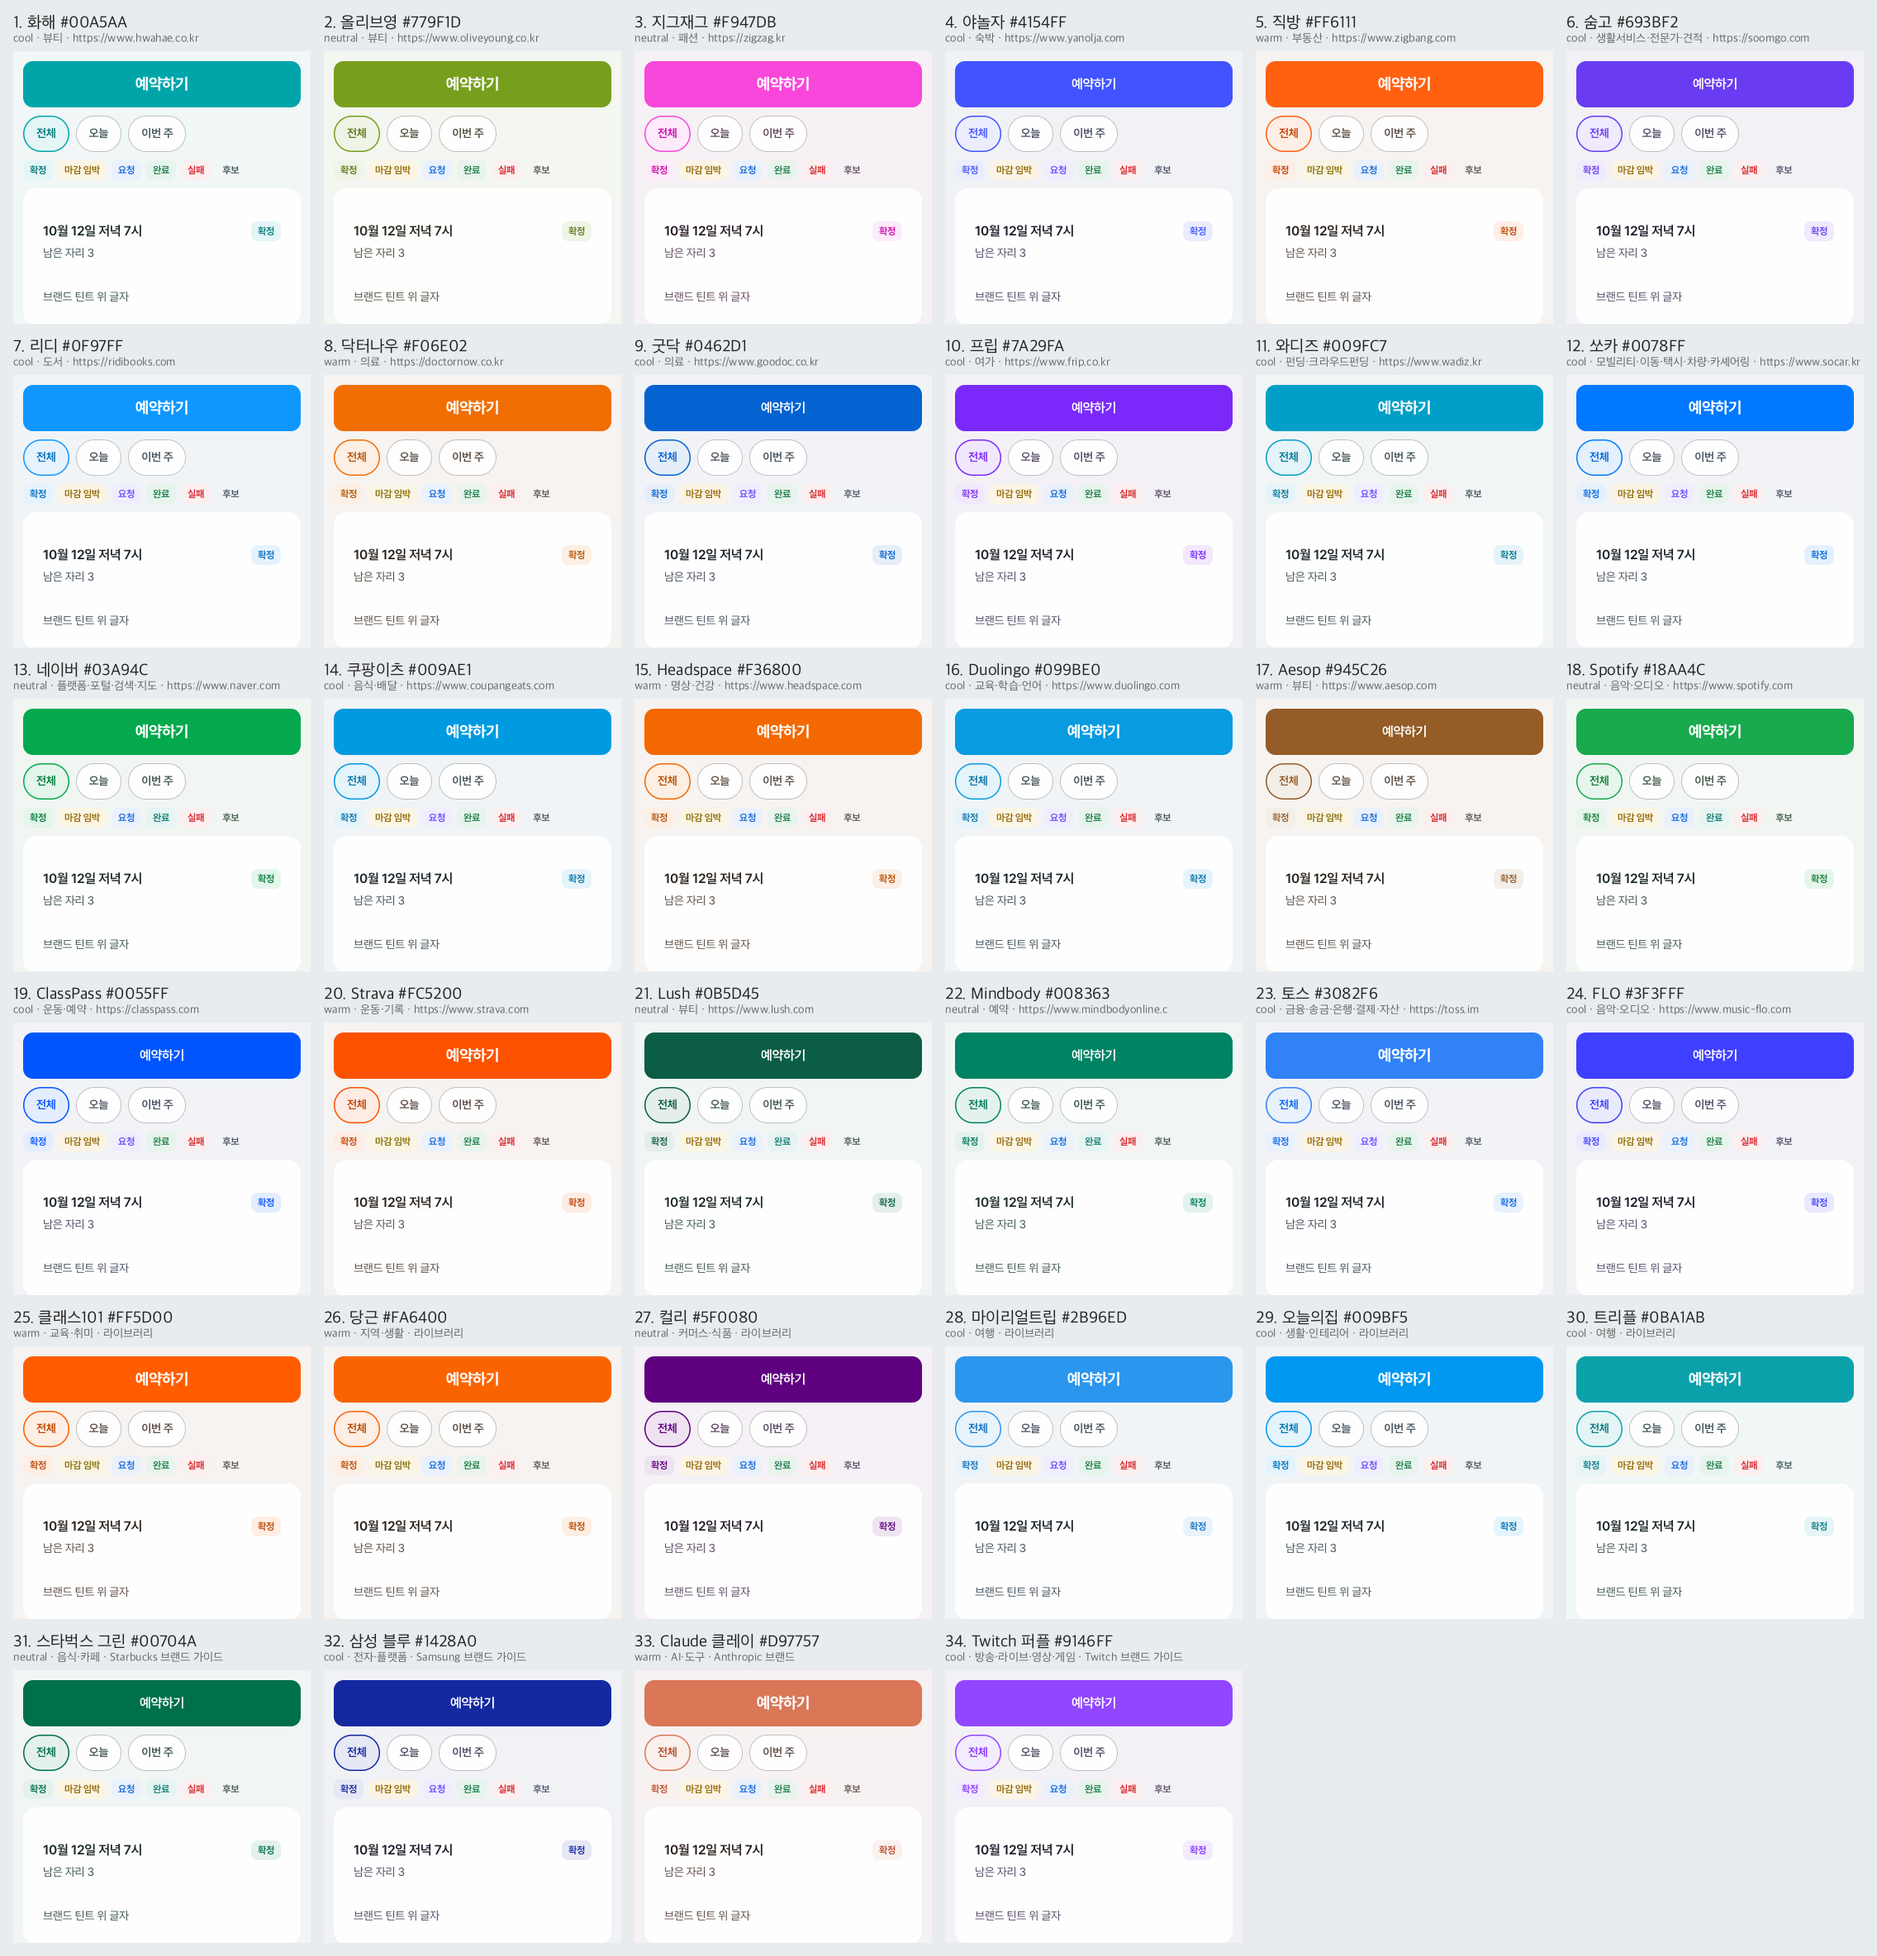
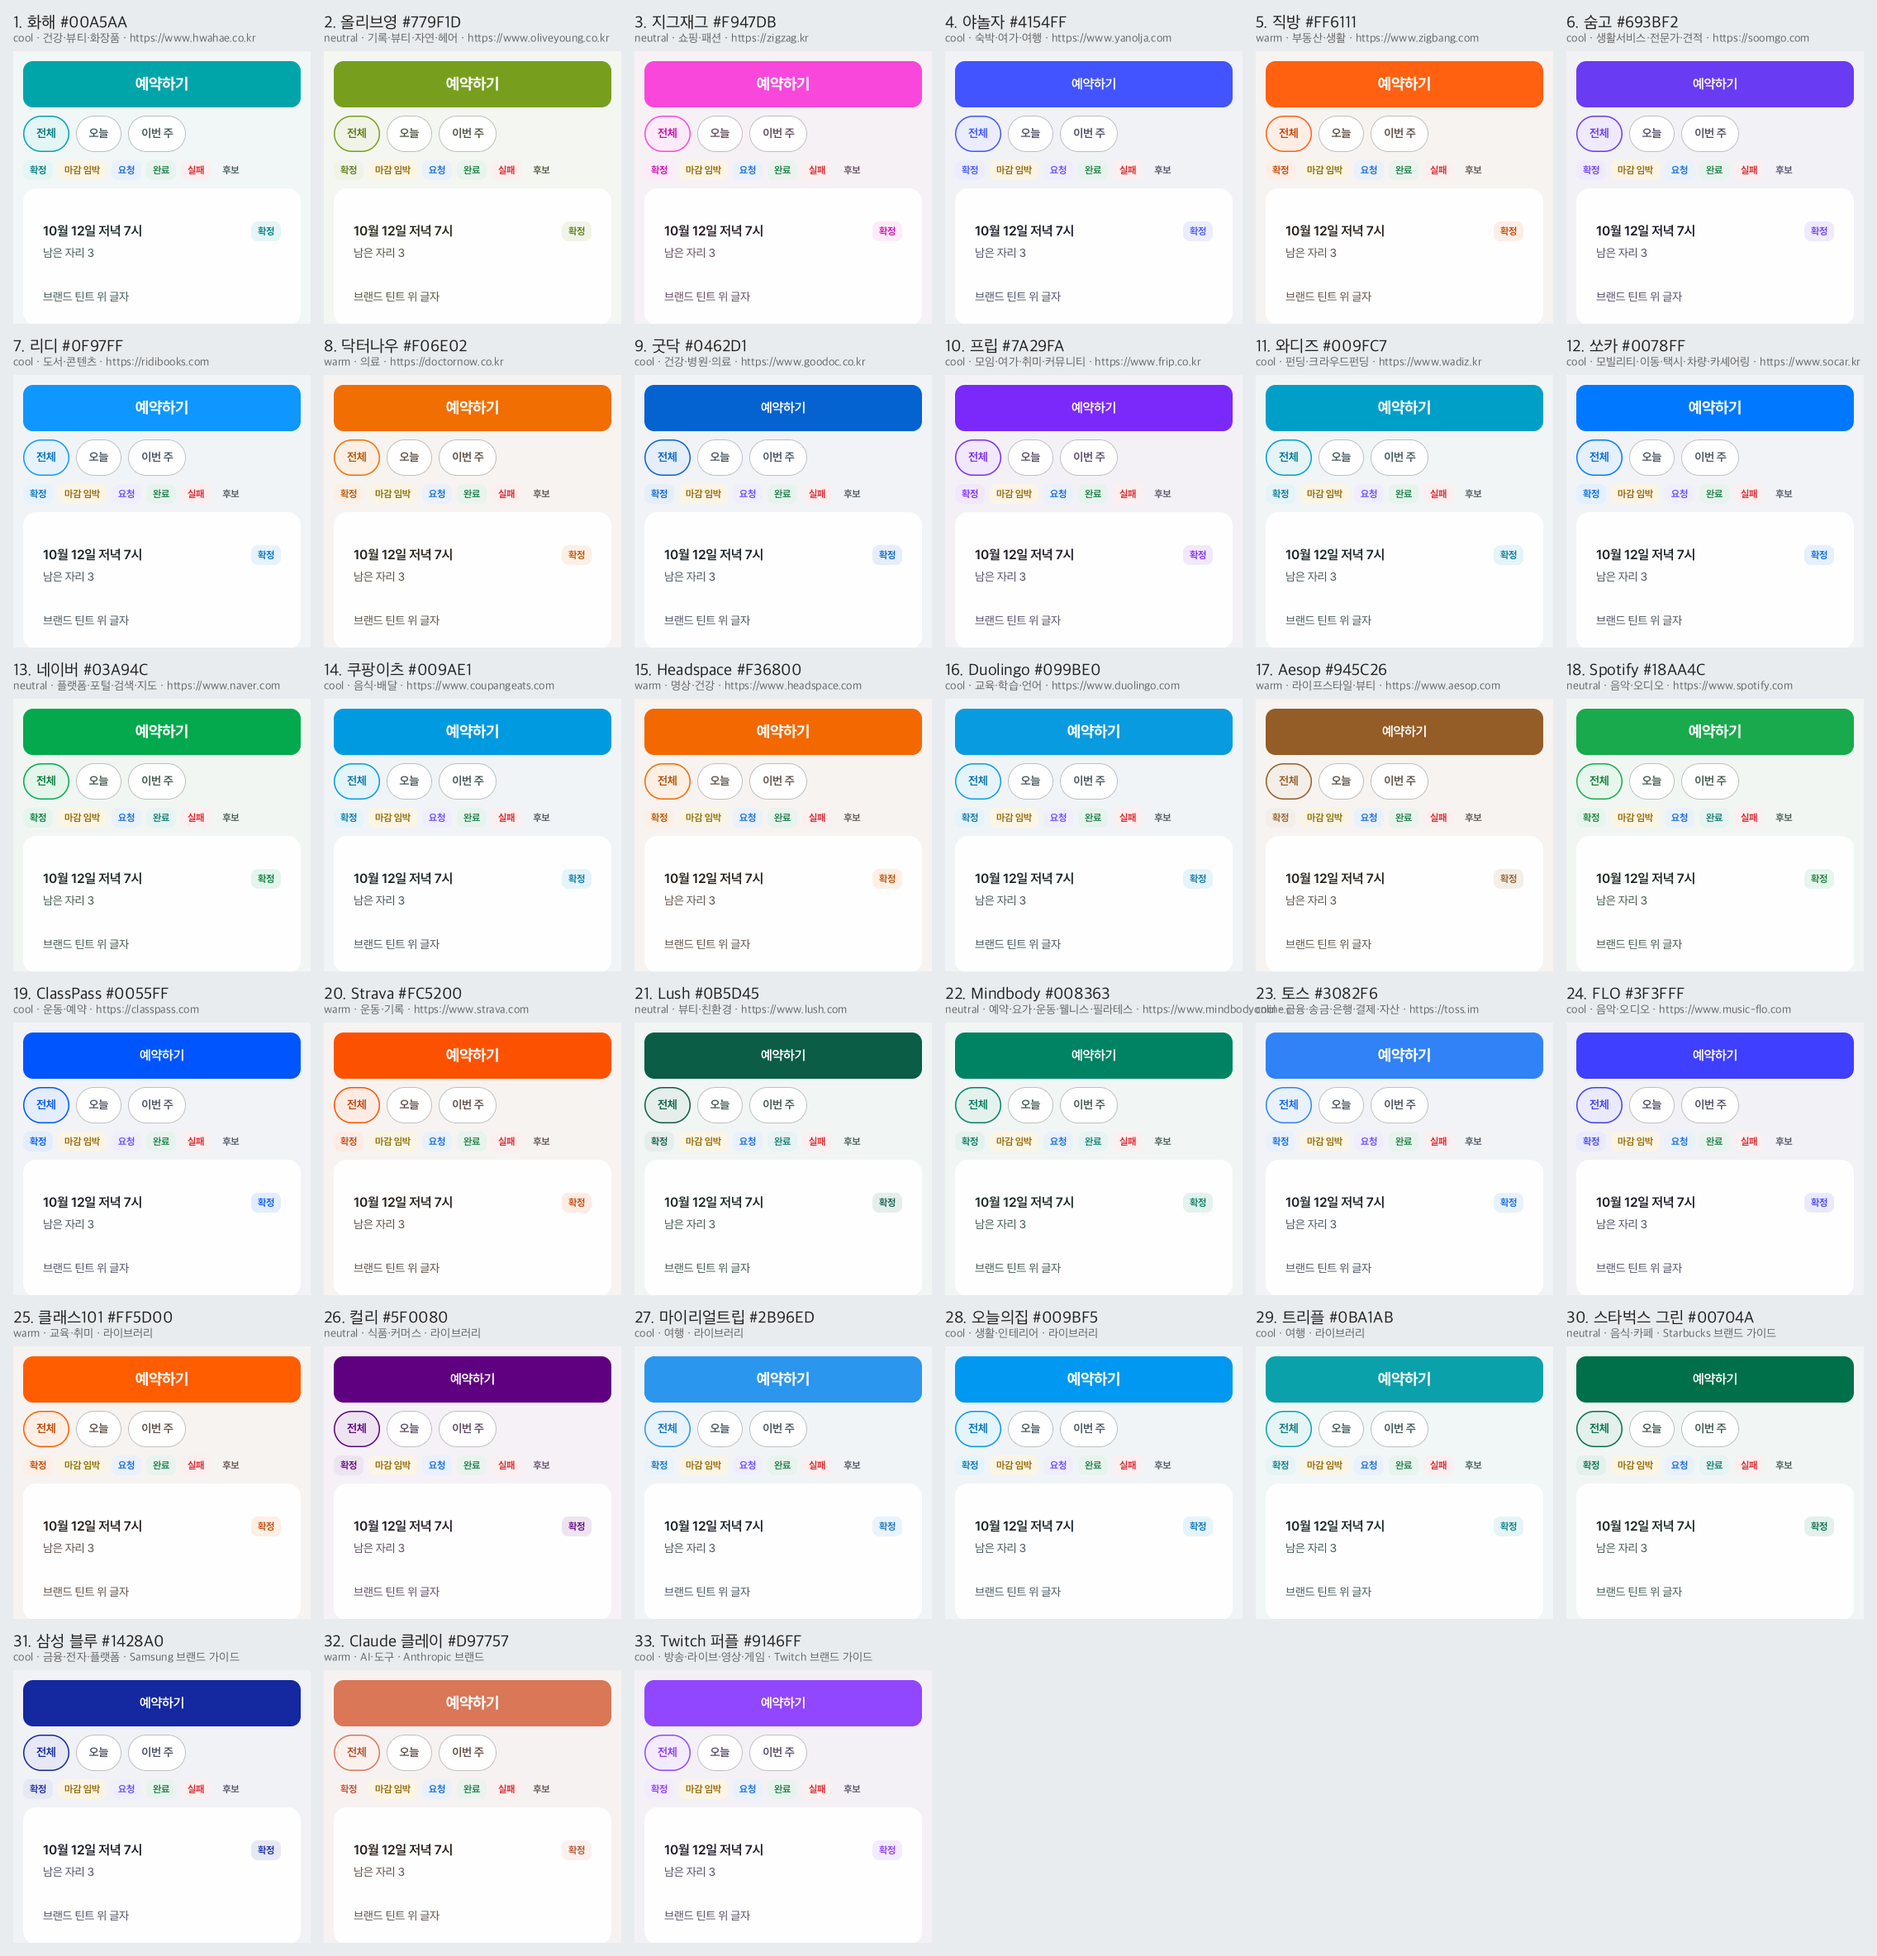
시드 다시 걸러도 승인 시드의 손 값(성격·도메인·둥글기) 보존, 시드 도메인 점수는 맞은 낱말마다 3(토스가 성격 낱말 많은 삼성 블루에 밀리던 것)

Changed region(s): [[0.0, 0.8125, 0.6562, 0.9062], [0.1562, 0.6562, 1.0, 0.75], [0.5312, 0.9375, 0.5625, 0.9688]]

diff --git a/plugins/k-style-ui-ux/core/scripts/palette_pick.py b/plugins/k-style-ui-ux/core/scripts/palette_pick.py
@@ -3,7 +3,7 @@
 python3 palette_pick.py <out_dir> --domain 여행 --tags "따뜻함,편안함,신뢰" --temp warm
 → out_dir/tokens.css(기본값) + tokens-<slug>.css ×3 + palettes.json(선택 이유)
 
-점수: 도메인 일치 3 · 성격 태그 겹침 1씩 · 감정 온도(--temp warm|cool) 일치 +1.5 / 반대 -1.5 · 흰 글자 버튼이 성립(대비 3 이상)하지 않으면 -2 · 합성 팔레트 -0.5 · 브랜드가 오류 빨강과 겹치면 -1.5(확정과 주의가 같은 붉은색이 된다)
+점수: 도메인 일치 3(시드는 맞은 도메인 낱말마다 3) · 성격 태그 겹침 1씩 · 감정 온도(--temp warm|cool) 일치 +1.5 / 반대 -1.5 · 흰 글자 버튼이 성립(대비 3 이상)하지 않으면 -2 · 합성 팔레트 -0.5 · 브랜드가 오류 빨강과 겹치면 -1.5(확정과 주의가 같은 붉은색이 된다)
 대안: 기본값과 브랜드 색상각이 40° 이상 다른 것(모노 1개까지) — 원클릭 교체 때 확실히 달라 보이게
 """
 import argparse, json, pathlib, subprocess, sys, colorsys
@@ -54,7 +54,8 @@ def main():
         sc = []
         for sd in json.loads(seeds_f.read_text(encoding="utf-8")):
             v, why = 0, []
-            if a.domain and any(d in x for d in a.domain.split(",") for x in sd.get("domains", [])): v += 3; why.append("도메인(" + "·".join(sd["domains"]) + ")")
+            dh = [d for d in a.domain.split(",") if d and any(d in x for x in sd.get("domains", []))]   # 맞은 도메인 낱말마다 3 — 더 정확히 맞는 시드가 성격 낱말 수로 뒤집히지 않게
+            if dh: v += 3 * len(dh); why.append("도메인(" + "·".join(dh) + ")")
             hit = tags & set(sd.get("tags", []))
             if hit: v += len(hit); why.append("성격(" + ",".join(sorted(hit)) + ")")
             if a.temp and sd.get("tone") in ("warm", "cool"):

diff --git a/plugins/k-style-ui-ux/core/scripts/seed_sheet.py b/plugins/k-style-ui-ux/core/scripts/seed_sheet.py
@@ -37,6 +37,14 @@ def collect():
             c.append({"slug": g.stem, "name": d["name"], "hex": d["scales"][d["brand"]][d["brand_step"]].upper(), "domains": d.get("domain", "").split("·"), "source": "라이브러리", "tags": d.get("tags", [])})
     f = P / "seed_extra.json"
     if f.exists(): c += json.loads(f.read_text(encoding="utf-8"))
+    # 이미 승인된 시드(seeds.json)에 손으로 붙인 성격 낱말·도메인·둥글기는 다시 걸러도 잃지 않는다
+    old = {x["slug"]: x for x in json.loads((P / "seeds.json").read_text(encoding="utf-8"))} if (P / "seeds.json").exists() else {}
+    for x in c:
+        o = old.get(x["slug"])
+        if not o: continue
+        x["domains"] = list(dict.fromkeys((o.get("domains") or []) + (x.get("domains") or [])))
+        for k in ("tags", "shape"):
+            if o.get(k) and not x.get(k): x[k] = o[k]
     return c
 
 def filt(c):
@@ -96,7 +104,7 @@ def main():
     if a.approve is not None:
         keep = json.loads((P / "seed_filtered.json").read_text(encoding="utf-8"))
         drop = {int(x) for x in a.approve.replace(" ", "").split(",") if x}
-        seeds = [{k: v for k, v in x.items() if k in ("slug", "name", "hex", "tone", "tags", "domains", "source")} for i, x in enumerate(keep, 1) if i not in drop]
+        seeds = [{k: v for k, v in x.items() if k in ("slug", "name", "hex", "tone", "tags", "domains", "source", "shape")} for i, x in enumerate(keep, 1) if i not in drop]
         (P / "seeds.json").write_text(json.dumps(seeds, ensure_ascii=False, indent=1), encoding="utf-8")
         print(f"seeds.json {len(seeds)}개 (뺀 번호 {sorted(drop)})"); return
     keep, log = filt(collect())
